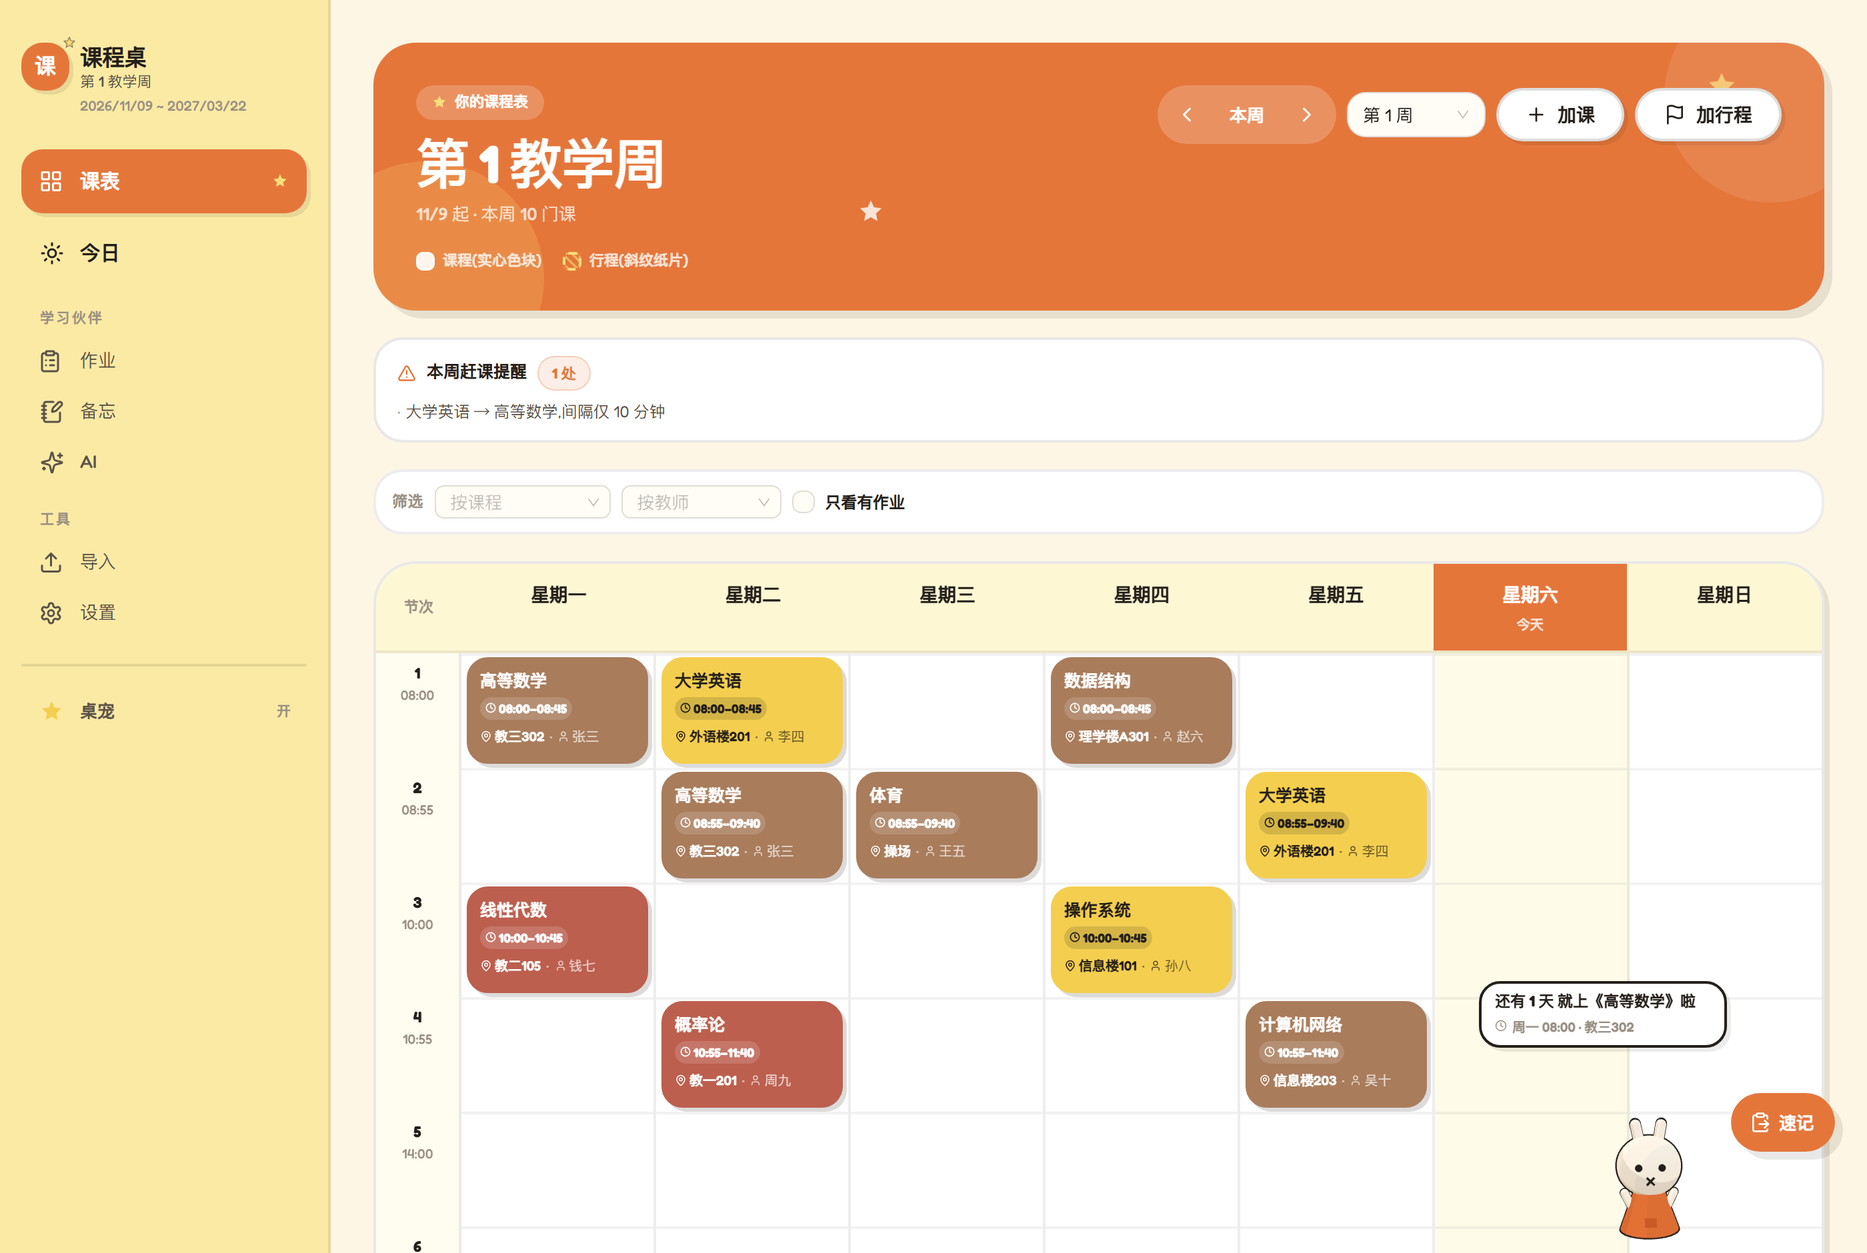
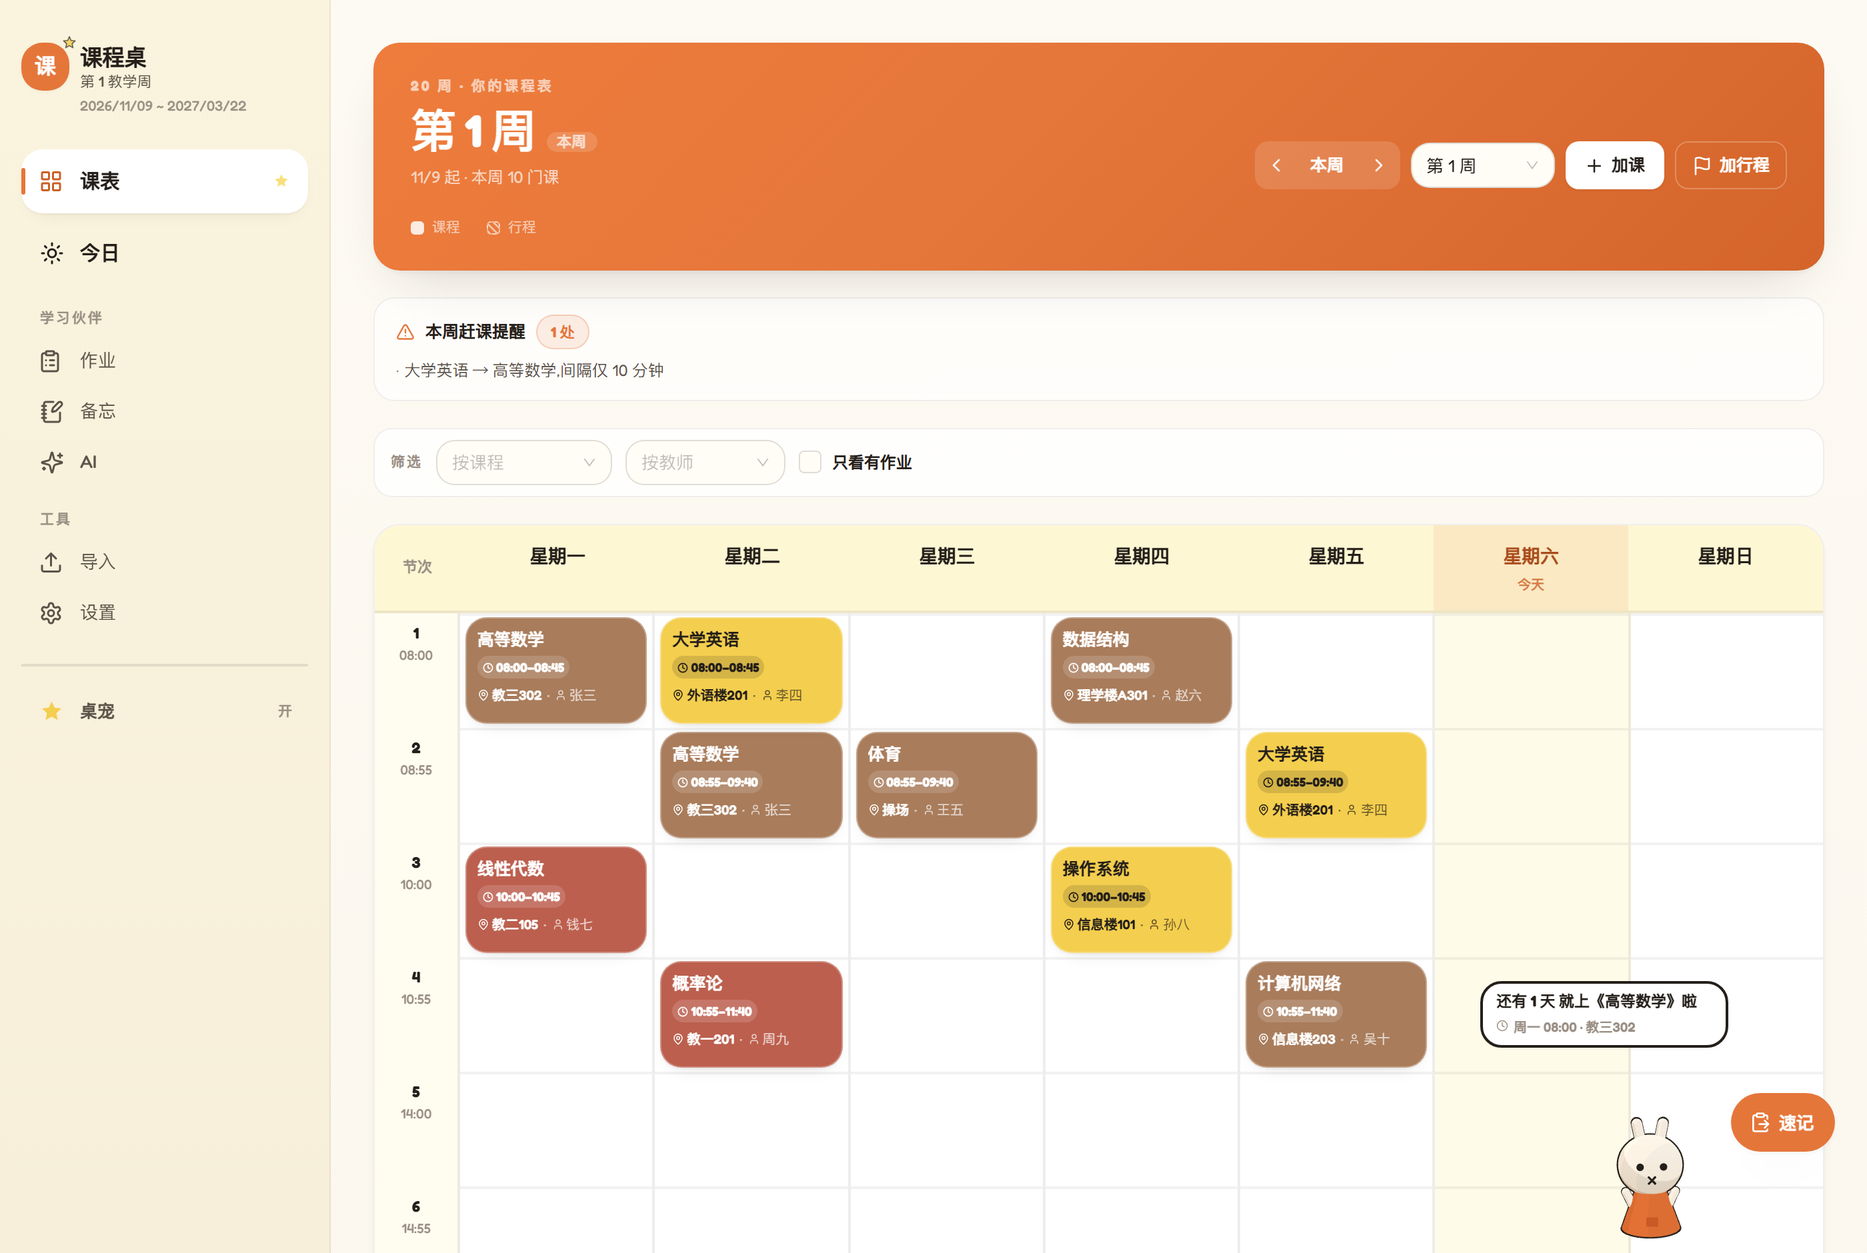
视觉升级

diff --git a/src/components/ScheduleView.tsx b/src/components/ScheduleView.tsx
@@ -187,45 +187,46 @@ export function ScheduleView({ courses, events, homework, settings, onToast }: P
 
   return (
     <div className="space-y-5">
-      {/* ============ 主角页头:橙色横幅 ============ */}
-      <section className="relative overflow-hidden rounded-[32px] bg-tangerine-500 shadow-sticker-lg">
-        {/* 装饰星 */}
-        <StarIcon size={26} color="#F8DF7C" className="absolute top-5 right-16 animate-twinkle" />
-        <StarIcon size={17} color="#7B92DC" className="absolute top-12 right-32 animate-twinkle" />
-        <StarIcon size={20} color="#FFFFFF" className="absolute bottom-16 left-1/3 opacity-80" />
-        <div className="absolute -right-10 -top-10 w-40 h-40 rounded-full bg-white/10" />
-        <div className="absolute -left-12 -bottom-16 w-44 h-44 rounded-full bg-butter-300/20" />
-
-        <div className="relative px-5 pt-6 pb-7 sm:px-8 sm:pt-8">
-          <div className="flex flex-wrap items-start justify-between gap-4">
-            <div>
-              <div className="inline-flex items-center gap-1.5 bg-white/20 text-white text-[11px] font-bold px-3 py-1 rounded-full mb-3">
-                <Star size={11} fill="#F8DF7C" strokeWidth={0} color="#F8DF7C" />
-                你的课程表
+      {/* ============ 页头:克制的一块暖色,承载周次与操作 ============ */}
+      <section
+        className="relative overflow-hidden rounded-[20px] shadow-soft-lg"
+        style={{ background: 'linear-gradient(135deg, #EE7C3C 0%, #E5763A 46%, #D4642A 100%)' }}
+      >
+        <div className="relative px-5 pt-5 pb-5 sm:px-7 sm:pt-6 sm:pb-6">
+          <div className="flex flex-wrap items-end justify-between gap-x-6 gap-y-4">
+            <div className="min-w-0">
+              <div className="text-[10.5px] font-bold tracking-[0.18em] text-white/65 uppercase">
+                {settings.weekCount} 周 · 你的课程表
               </div>
-              <h1 className="text-3xl lg:text-[40px] font-extrabold tracking-tight text-white leading-none">
-                第 {week} 教学周
+              <h1 className="mt-2 flex items-baseline gap-2 text-[30px] sm:text-[34px] font-extrabold tracking-[-0.02em] text-white leading-none">
+                第 {week} 周
+                {week === thisWeek && (
+                  <span className="text-[11px] font-bold tracking-normal text-white/70 bg-white/15 px-2 py-0.5 rounded-full">
+                    本周
+                  </span>
+                )}
               </h1>
-              <p className="text-white/75 text-[13px] font-medium mt-2">
+              <p className="mt-2 text-[12px] text-white/70 tabular-nums">
                 {monday.getMonth() + 1}/{monday.getDate()} 起 · 本周 {visible.length} 门课
               </p>
             </div>
 
-            <div className="flex items-center gap-1.5 sm:gap-2">
-              <div className="flex items-center bg-white/20 rounded-full p-1 gap-0.5">
+            {/* 操作区:所有控件统一 36px 高、同一圆角,严格对齐 */}
+            <div className="flex w-full flex-wrap items-center gap-2 sm:w-auto sm:flex-nowrap">
+              <div className="flex items-center rounded-[10px] bg-white/[0.14] h-9 overflow-hidden">
                 <Tooltip title="上一周" mouseEnterDelay={0.4}>
                   <button
                     onClick={() => setWeek((w) => Math.max(1, w - 1))}
-                    className="w-9 h-9 rounded-full text-white hover:bg-white/25 grid place-items-center transition-colors"
+                    className="w-8 h-9 text-white/90 hover:bg-white/15 grid place-items-center transition-colors"
                     aria-label="上一周"
                   >
-                    <ChevronLeft size={18} />
+                    <ChevronLeft size={16} />
                   </button>
                 </Tooltip>
                 <Tooltip title={week === thisWeek ? '现在就是本周' : '回到本周'} mouseEnterDelay={0.4}>
                   <button
                     onClick={() => setWeek(thisWeek)}
-                    className="px-3 h-9 rounded-full text-white text-[13px] font-bold hover:bg-white/25 transition-colors whitespace-nowrap"
+                    className="px-2.5 h-9 text-white text-[12.5px] font-bold hover:bg-white/15 transition-colors whitespace-nowrap"
                   >
                     本周
                   </button>
@@ -233,61 +234,60 @@ export function ScheduleView({ courses, events, homework, settings, onToast }: P
                 <Tooltip title="下一周" mouseEnterDelay={0.4}>
                   <button
                     onClick={() => setWeek((w) => Math.min(settings.weekCount, w + 1))}
-                    className="w-9 h-9 rounded-full text-white hover:bg-white/25 grid place-items-center transition-colors"
+                    className="w-8 h-9 text-white/90 hover:bg-white/15 grid place-items-center transition-colors"
                     aria-label="下一周"
                   >
-                    <ChevronRight size={18} />
+                    <ChevronRight size={16} />
                   </button>
                 </Tooltip>
               </div>
-              <Select
-                value={week}
-                onChange={setWeek}
-                className="w-[104px]"
-                size="middle"
-                popupMatchSelectWidth={140}
+
+              <div className="hidden w-[108px] shrink-0 sm:block">
+                <Select
+                  value={week}
+                  onChange={setWeek}
+                  className="w-full"
+                  size="middle"
+                  popupMatchSelectWidth={132}
                 options={Array.from({ length: settings.weekCount }, (_, i) => ({
                   label: `第 ${i + 1} 周`,
                   value: i + 1,
                 }))}
-                aria-label="跳到某一周"
-              />
-              <Button
-                variant="secondary"
-                size="md"
+                  aria-label="跳到某一周"
+                />
+              </div>
+
+              <button
                 onClick={openNew}
-                className="!bg-white !text-ink !border-ink/[0.15] shadow-sticker-sm !px-4 sm:!px-5"
+                className="inline-flex shrink-0 items-center gap-1.5 h-9 px-3.5 rounded-[10px] bg-white text-ink text-[12.5px] font-bold hover:bg-white/90 active:translate-y-[1px] transition-all shadow-soft-sm"
               >
-                <Plus size={16} /> 加课
-              </Button>
-              <Button
-                variant="secondary"
-                size="md"
+                <Plus size={15} /> 加课
+              </button>
+              <button
                 onClick={openNewEvent}
                 title="添加行程:学生会会议、党会、讲座等"
-                className="!bg-white !text-ink !border-ink/[0.15] shadow-sticker-sm !px-3 sm:!px-5"
+                className="inline-flex shrink-0 items-center gap-1.5 h-9 px-3 rounded-[10px] border border-white/25 text-white text-[12.5px] font-bold hover:bg-white/12 active:translate-y-[1px] transition-all"
               >
-                <Flag size={16} /> <span className="hidden sm:inline">加行程</span>
-              </Button>
+                <Flag size={15} /> <span className="hidden sm:inline">加行程</span>
+              </button>
             </div>
           </div>
 
-          {/* 图例:实心 = 课程,斜纹 = 行程 */}
-          <div className="relative mt-4 flex flex-wrap items-center gap-x-4 gap-y-1.5 text-[11px] font-semibold text-white/80">
+          {/* 图例:细线 + 小方块,不用颜色本身说话 */}
+          <div className="mt-5 flex flex-wrap items-center gap-x-5 gap-y-1.5 text-[10.5px] font-medium text-white/60">
             <span className="inline-flex items-center gap-1.5">
-              <span className="w-3.5 h-3.5 rounded-[5px] bg-white/90 border-2 border-white/60" />
-              课程(实心色块)
+              <span className="w-2.5 h-2.5 rounded-[3px] bg-white/85" />
+              课程
             </span>
             <span className="inline-flex items-center gap-1.5">
               <span
-                className="w-3.5 h-3.5 rounded-[5px] border-2 border-dashed"
+                className="w-2.5 h-2.5 rounded-[3px] border border-white/45"
                 style={{
-                  borderColor: '#F8DF7C',
                   backgroundImage:
-                    'repeating-linear-gradient(45deg, rgba(248,223,124,.55) 0 2px, transparent 2px 5px)',
+                    'repeating-linear-gradient(45deg, rgba(255,255,255,.55) 0 1.5px, transparent 1.5px 4px)',
                 }}
               />
-              行程(斜纹纸片)
+              行程
             </span>
           </div>
         </div>
@@ -295,7 +295,7 @@ export function ScheduleView({ courses, events, homework, settings, onToast }: P
 
       {/* ============ 赶课提醒(移动端折叠成一行,不抢课表) ============ */}
       {risks.length > 0 && (
-        <div className="rounded-[22px] bg-white border-2 border-ink/10 px-4 py-3">
+        <div className="rounded-[16px] border border-ink/[0.07] bg-white/70 px-4 py-3">
           <div className="flex items-center gap-2">
             <AlertTriangle size={14} className="text-tangerine-500 shrink-0" />
             <span className="text-[12.5px] font-extrabold text-ink whitespace-nowrap">本周赶课提醒</span>
@@ -320,8 +320,8 @@ export function ScheduleView({ courses, events, homework, settings, onToast }: P
       )}
 
       {/* ============ 筛选条(Ant Design Select / Checkbox / Tag) ============ */}
-      <div className="flex flex-wrap items-center gap-2 rounded-[22px] bg-white border-2 border-ink/[0.08] px-3 py-2.5">
-        <span className="text-[11.5px] font-extrabold text-ink-mute tracking-wide">筛选</span>
+      <div className="flex flex-wrap items-center gap-2.5 rounded-[14px] border border-ink/[0.07] bg-white/75 px-3 py-2">
+        <span className="text-[10.5px] font-bold uppercase tracking-[0.14em] text-ink-mute">筛选</span>
 
         <Select
           mode="multiple"
@@ -332,7 +332,7 @@ export function ScheduleView({ courses, events, homework, settings, onToast }: P
           options={courseOptions}
           placeholder="按课程"
           className="min-w-[132px] max-w-[220px]"
-          size="small"
+          size="middle"
         />
         <Select
           mode="multiple"
@@ -343,7 +343,7 @@ export function ScheduleView({ courses, events, homework, settings, onToast }: P
           options={teacherOptions}
           placeholder="按教师"
           className="min-w-[120px] max-w-[200px]"
-          size="small"
+          size="middle"
         />
         <Checkbox checked={onlyHomework} onChange={(e) => setOnlyHomework(e.target.checked)}>
           <span className="text-[12px] font-semibold">只看有作业</span>
@@ -366,7 +366,7 @@ export function ScheduleView({ courses, events, homework, settings, onToast }: P
 
       {/* ============ 本周无课 / 筛选无结果 ============ */}
       {courses.length > 0 && visible.length === 0 && (
-        <div className="rounded-[22px] bg-white border-2 border-ink/[0.08] py-2">
+        <div className="rounded-[16px] border border-ink/[0.07] bg-white/70 py-2">
           <AntEmpty
             image={AntEmpty.PRESENTED_IMAGE_SIMPLE}
             description={
@@ -389,7 +389,7 @@ export function ScheduleView({ courses, events, homework, settings, onToast }: P
       )}
 
       {/* ============ 课表网格(视觉主角) ============ */}
-      <Card className="overflow-hidden !rounded-[32px]">
+      <Card className="overflow-hidden">
         <div className="overflow-x-auto">
           <div className="min-w-[760px]">
             {/* 表头 */}
@@ -404,19 +404,19 @@ export function ScheduleView({ courses, events, homework, settings, onToast }: P
                     key={w}
                     className={cn(
                       'flex-1 min-w-[96px] py-3 text-center',
-                      isToday ? 'bg-tangerine-500' : '',
+                      isToday ? 'bg-tangerine-500/[0.10]' : '',
                     )}
                   >
                     <span
                       className={cn(
                         'text-[14px] font-extrabold',
-                        isToday ? 'text-white' : 'text-ink',
+                        isToday ? 'text-tangerine-700' : 'text-ink',
                       )}
                     >
                       星期{w}
                     </span>
                     {isToday && (
-                      <span className="block text-[10px] font-bold text-white/80 mt-0.5">今天</span>
+                      <span className="block text-[10px] font-bold text-tangerine-600/80 mt-0.5">今天</span>
                     )}
                   </div>
                 )
@@ -550,8 +550,8 @@ export function ScheduleView({ courses, events, homework, settings, onToast }: P
                               top: (startPeriod - 1) * ROW_H + 3,
                               height: periods.length * ROW_H - 6,
                               background: color,
-                              border: `2px solid ${color}`,
-                              boxShadow: '3px 3px 0 0 rgba(36,31,26,.16)',
+                              border: '1px solid rgba(255,255,255,.30)',
+                              boxShadow: '0 1px 2px rgba(36,31,26,.05), 0 6px 16px -10px rgba(36,31,26,.20)',
                             }}
                           >
                             <div
@@ -632,7 +632,7 @@ export function ScheduleView({ courses, events, homework, settings, onToast }: P
                             left: `calc(${(p.lane * 100) / p.lanes}% + 4px)`,
                             width: `calc(${100 / p.lanes}% - 8px)`,
                             ...eventBlockStyle(EVENT_COLOR),
-                            boxShadow: '3px 3px 0 0 rgba(36,31,26,.13)',
+                        boxShadow: '0 1px 2px rgba(36,31,26,.04), 0 6px 16px -10px rgba(36,31,26,.16)',
                           }}
                         >
                           <div

diff --git a/src/index.css b/src/index.css
@@ -76,11 +76,14 @@ body {
 @layer components {
   /* ================= 应用骨架 ================= */
   .app-shell {
-    @apply min-h-full flex bg-[#fdf6e4];
+    /* 暖白底 + 极淡的上方渐变,比纯色更有层次,也不抢内容 */
+    @apply min-h-full flex bg-[#FBF7EE];
+    background-image: linear-gradient(180deg, #fdfaf3 0%, #fbf7ee 46%, #f8f2e6 100%);
   }
 
   .sidebar {
-    @apply hidden lg:flex flex-col w-[248px] shrink-0 bg-[#fbeaa4] border-r-2 border-[#241f1a]/10;
+    @apply hidden lg:flex flex-col w-[248px] shrink-0 border-r border-[#241f1a]/[0.07];
+    background: linear-gradient(180deg, #faf3dd 0%, #f7efd9 100%);
   }
 
   /* ================= 侧栏对齐栅格 =================
@@ -102,8 +105,16 @@ body {
     @apply bg-white/60;
   }
 
+  /* 选中态:白色浮起 + 左侧 3px 主色条,比整块填充更克制 */
   .nav-primary.active {
-    @apply bg-tangerine-500 text-white shadow-sticker-sm;
+    @apply bg-white text-ink shadow-soft relative;
+  }
+  .nav-primary.active::before {
+    content: '';
+    @apply absolute left-0 top-1/2 -translate-y-1/2 w-[3px] h-5 rounded-full bg-tangerine-500;
+  }
+  .nav-primary.active .nav-icon {
+    @apply text-tangerine-600;
   }
 
   /* 二级导航:学习伙伴 —— 安静、小一号(与一级共用同一条对齐线) */
@@ -160,11 +171,11 @@ body {
 
   /* ================= 卡片 ================= */
   .card {
-    @apply bg-white rounded-[28px] border-2 border-[#241f1a]/10 shadow-sticker;
+    @apply bg-white rounded-[20px] border border-[#241f1a]/[0.07] shadow-soft;
   }
 
   .card-soft {
-    @apply rounded-[24px] border-2 border-[#241f1a]/[0.08];
+    @apply rounded-[16px] border border-[#241f1a]/[0.06] bg-white/60;
   }
 
   /* ================= Markdown ================= */

diff --git a/tailwind.config.js b/tailwind.config.js
@@ -87,11 +87,15 @@ export default {
         mono: ['"JetBrains Mono"', 'ui-monospace', 'SFMono-Regular', 'Menlo', 'monospace'],
       },
       boxShadow: {
-        // 厚实贴纸感硬阴影
-        sticker: '4px 4px 0 0 rgba(36,31,26,.10)',
-        'sticker-sm': '3px 3px 0 0 rgba(36,31,26,.09)',
-        'sticker-lg': '6px 6px 0 0 rgba(36,31,26,.10)',
-        pop: '0 10px 30px -12px rgba(36,31,26,.35)',
+        // 柔和分层阴影:一档近、一档远,去掉硬边贴纸感
+        soft: '0 1px 2px rgba(36,31,26,.04), 0 6px 16px -10px rgba(36,31,26,.14)',
+        'soft-lg': '0 2px 4px rgba(36,31,26,.04), 0 18px 40px -20px rgba(36,31,26,.20)',
+        'soft-sm': '0 1px 2px rgba(36,31,26,.05)',
+        // 兼容旧类名(仍在用的地方),但改成柔和的
+        sticker: '0 1px 2px rgba(36,31,26,.04), 0 6px 16px -10px rgba(36,31,26,.14)',
+        'sticker-sm': '0 1px 2px rgba(36,31,26,.04)',
+        'sticker-lg': '0 2px 4px rgba(36,31,26,.04), 0 18px 40px -20px rgba(36,31,26,.20)',
+        pop: '0 18px 44px -18px rgba(36,31,26,.28)',
       },
       borderRadius: {
         '4xl': '2rem',

diff --git a/src/components/SettingsView.tsx b/src/components/SettingsView.tsx
@@ -315,7 +315,7 @@ export function SettingsView({ settings, onToast }: Props) {
                 size="sm"
                 variant="ghost"
                 onClick={async () => {
-                  const ok = await showNotification('课程桌 · 测试通知', '这是一条测试消息,说明通知工作正常 👍')
+                  const ok = await showNotification('课程桌 · 测试通知', '这是一条测试消息,说明通知工作正常')
                   onToast(ok ? '测试通知已发送' : '通知未发送(权限未授予)', ok ? 'success' : 'error')
                 }}
               >

diff --git a/src/App.tsx b/src/App.tsx
@@ -293,7 +293,7 @@ export function App() {
             <EditableAvatar size="sm" />
             <div>
               <div className="font-extrabold text-ink text-sm leading-tight">{current?.label ?? '课程桌'}</div>
-              <div className="text-[10px] text-ink-mute font-medium">第 {week} 教学周</div>
+              <div className="text-[10px] text-ink-mute font-medium">第 {week} 周</div>
             </div>
           </div>
           <div className="text-[11px] text-ink-mute font-medium">{settings.schoolName || semesterRange(settings)}</div>

diff --git a/src/components/PetOverlay.tsx b/src/components/PetOverlay.tsx
@@ -276,7 +276,7 @@ export function PetOverlay({ courses, homework, settings, visible, onClose }: Pr
   if (!visible) return null
 
   return (
-    <div className="fixed inset-0 z-[48] pointer-events-none">
+    <div className="fixed inset-0 z-[48] pointer-events-none hidden lg:block">
       {/* 锚点 = 兔子的左上角;气泡和面板都挂在它上方,不会把兔子挤出屏幕 */}
       <div ref={wrapRef} className="absolute left-0 top-0 will-change-transform" style={{ width: PET_W, height: PET_H }}>
         {/* 展开的今日信息 */}

diff --git a/src/components/AntdTheme.tsx b/src/components/AntdTheme.tsx
@@ -47,7 +47,7 @@ export function AntdTheme({ children }: { children: ReactNode }) {
           },
           Popover: { colorBgElevated: '#FFFDF5' },
           Tooltip: { colorBgSpotlight: '#241F1A' },
-          Checkbox: { colorPrimary: '#E5763A' },
+          Checkbox: { colorPrimary: '#E5763A', borderRadiusSM: 4 },
           Empty: { colorTextDescription: '#9A8F84' },
           Modal: { contentBg: '#FFFDF5', headerBg: '#FFFDF5', titleFontSize: 16 },
           Message: { contentBg: '#FFFDF5' },

diff --git a/src/components/TodayView.tsx b/src/components/TodayView.tsx
@@ -357,7 +357,7 @@ function HomeworkRow({
           setBusy(true)
           await toggleHomework(hw.id)
           setBusy(false)
-          onToast(hw.done ? '已恢复为待办' : '已标记完成 👍', 'success')
+          onToast(hw.done ? '已恢复为待办' : '已标记完成', 'success')
         }}
         disabled={busy}
         className="shrink-0 text-ink-mute/40 hover:text-grass-500 transition-colors"
